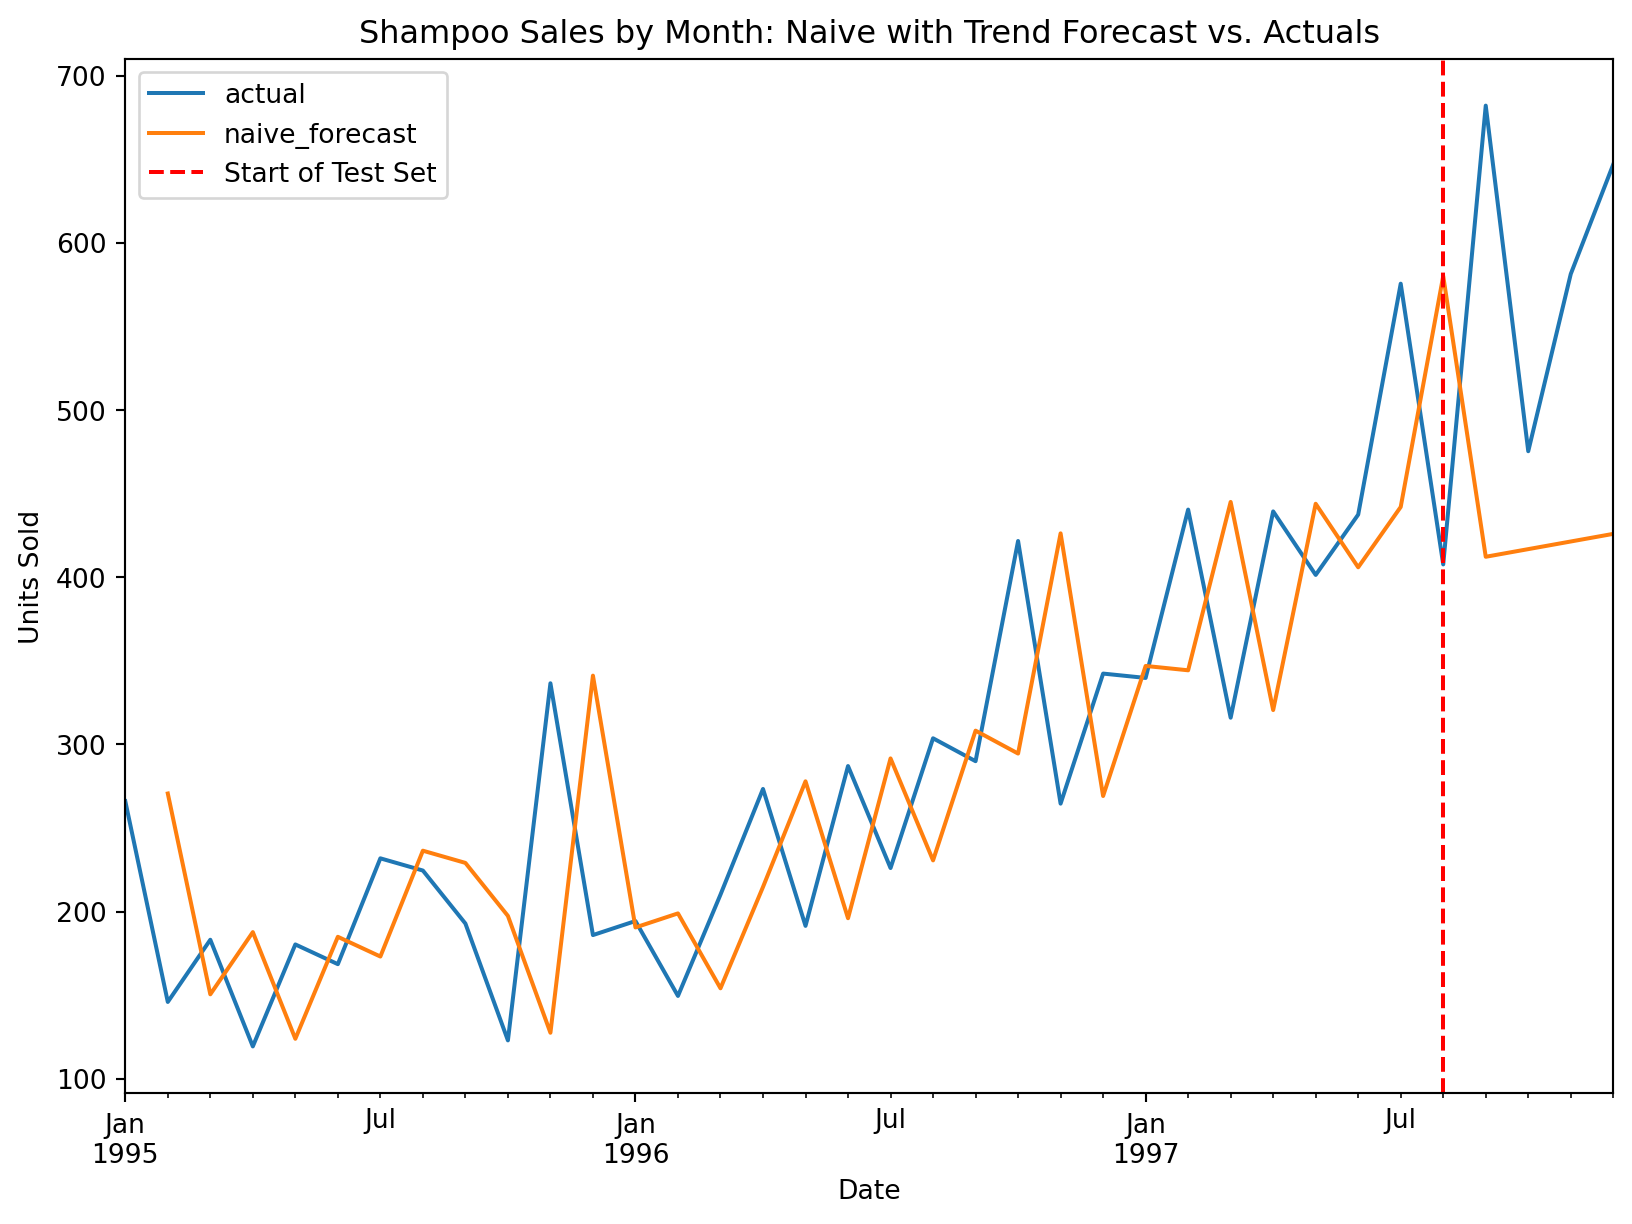
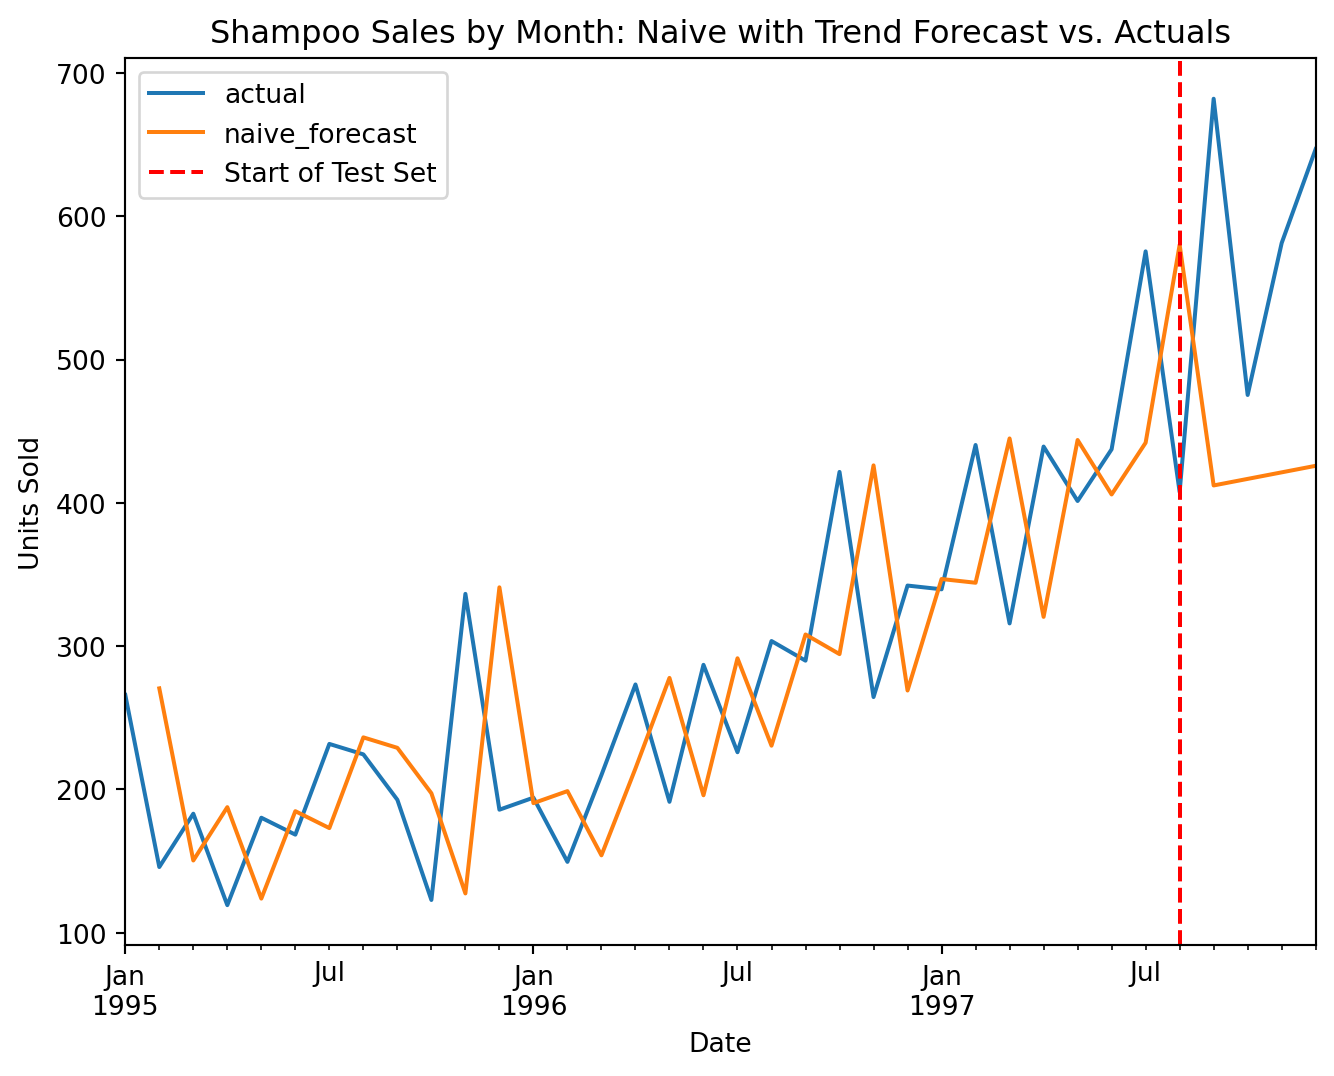
Fixed chart size in naive with drift article

diff --git a/docs/posts/naive-forecasts-including-trend/index.html b/docs/posts/naive-forecasts-including-trend/index.html
@@ -248,7 +248,7 @@ gtag('config', 'G-C9HXYCSWSJ', { 'anonymize_ip': true});
 <section id="a-simple-example-in-python" class="level2">
 <h2 class="anchored" data-anchor-id="a-simple-example-in-python">A Simple Example in Python</h2>
 <p>To illustrate a naive forecast with drift, we will use a common time series dataset that captures three years of monthly shampoo sales. In the following code cell, we will load the libraries we need and prepare our data for use.</p>
-<div id="fc79a6d7" class="cell" data-execution_count="1">
+<div id="8b3847c6" class="cell" data-execution_count="1">
 <div class="code-copy-outer-scaffold"><div class="sourceCode cell-code" id="cb1"><pre class="sourceCode python code-with-copy"><code class="sourceCode python"><span id="cb1-1"><a href="#cb1-1" aria-hidden="true" tabindex="-1"></a><span class="co"># common imports</span></span>
 <span id="cb1-2"><a href="#cb1-2" aria-hidden="true" tabindex="-1"></a><span class="im">import</span> numpy <span class="im">as</span> np</span>
 <span id="cb1-3"><a href="#cb1-3" aria-hidden="true" tabindex="-1"></a><span class="im">import</span> pandas <span class="im">as</span> pd</span>
@@ -272,13 +272,13 @@ gtag('config', 'G-C9HXYCSWSJ', { 'anonymize_ip': true});
 <span id="cb1-21"><a href="#cb1-21" aria-hidden="true" tabindex="-1"></a>shampoo <span class="op">=</span> shampoo.drop(columns<span class="op">=</span>[<span class="st">'Month'</span>, <span class="st">'Year'</span>])</span></code></pre></div><button title="Copy to Clipboard" class="code-copy-button"><i class="bi"></i></button></div>
 </div>
 <p>Now, we will perform a simple train-test split to set aside a portion of our dataset for testing.</p>
-<div id="c270aff3" class="cell" data-execution_count="2">
+<div id="a74a00ed" class="cell" data-execution_count="2">
 <div class="code-copy-outer-scaffold"><div class="sourceCode cell-code" id="cb2"><pre class="sourceCode python code-with-copy"><code class="sourceCode python"><span id="cb2-1"><a href="#cb2-1" aria-hidden="true" tabindex="-1"></a><span class="im">from</span> sklearn.model_selection <span class="im">import</span> train_test_split</span>
 <span id="cb2-2"><a href="#cb2-2" aria-hidden="true" tabindex="-1"></a></span>
 <span id="cb2-3"><a href="#cb2-3" aria-hidden="true" tabindex="-1"></a>y_train, y_test <span class="op">=</span> train_test_split(shampoo, shuffle<span class="op">=</span><span class="va">False</span>, test_size<span class="op">=</span><span class="dv">4</span>) <span class="co">#Shuffle parameter is set to Fase since we are working with a time series</span></span></code></pre></div><button title="Copy to Clipboard" class="code-copy-button"><i class="bi"></i></button></div>
 </div>
 <p>Let’s take a quick look at our data using a simple line plot. In a real-world project, you would do much more during the exploratory data analysis stage. However, for our purposes, this will help us identify the trend structure within the data.</p>
-<div id="d1d3a3ab" class="cell" data-execution_count="3">
+<div id="87a1f324" class="cell" data-execution_count="3">
 <div class="code-copy-outer-scaffold"><div class="sourceCode cell-code" id="cb3"><pre class="sourceCode python code-with-copy"><code class="sourceCode python"><span id="cb3-1"><a href="#cb3-1" aria-hidden="true" tabindex="-1"></a>shampoo.plot(figsize<span class="op">=</span>(<span class="dv">10</span>,<span class="dv">7</span>))</span>
 <span id="cb3-2"><a href="#cb3-2" aria-hidden="true" tabindex="-1"></a>plt.title(<span class="st">'Shampoo Sales by Month: 1995-1997'</span>)</span>
 <span id="cb3-3"><a href="#cb3-3" aria-hidden="true" tabindex="-1"></a>plt.ylabel(<span class="st">'Units Sold'</span>)</span>
@@ -293,13 +293,13 @@ gtag('config', 'G-C9HXYCSWSJ', { 'anonymize_ip': true});
 </div>
 <p>There is no clear seasonality in this dataset. However, our data displays a strong upward trend. Shampoo sales steadily increased during the years the data was collected.</p>
 <p>Now we are ready to create our fitted values for the training set. We will use pandas’ .shift() method to shift our values forward by one row. Then, we will use the .dropna() method to remove the resulting null value created by this shift.</p>
-<div id="6d4040fd" class="cell" data-execution_count="4">
+<div id="c2b52bdd" class="cell" data-execution_count="4">
 <div class="code-copy-outer-scaffold"><div class="sourceCode cell-code" id="cb4"><pre class="sourceCode python code-with-copy"><code class="sourceCode python"><span id="cb4-1"><a href="#cb4-1" aria-hidden="true" tabindex="-1"></a>shampoo_naive_fitted <span class="op">=</span> y_train.shift(<span class="dv">1</span>)</span>
 <span id="cb4-2"><a href="#cb4-2" aria-hidden="true" tabindex="-1"></a>shampoo_naive_fitted <span class="op">=</span> shampoo_naive_fitted.dropna()</span></code></pre></div><button title="Copy to Clipboard" class="code-copy-button"><i class="bi"></i></button></div>
 </div>
 <p>Next, we calculate our drift value. In this example, we will calculate it by subtracting the first observation from the last observation in our training set and dividing by the number of observations minus one.</p>
 <p>Pandas’ <code>.squeeze()</code> method turns the resulting single-value Series into a scalar value. More information about this method can be found in the pandas documentation <a href="https://pandas.pydata.org/docs/reference/api/pandas.DataFrame.squeeze.html">here</a>.</p>
-<div id="9d14b3fe" class="cell" data-execution_count="5">
+<div id="d838146e" class="cell" data-execution_count="5">
 <div class="code-copy-outer-scaffold"><div class="sourceCode cell-code" id="cb5"><pre class="sourceCode python code-with-copy"><code class="sourceCode python"><span id="cb5-1"><a href="#cb5-1" aria-hidden="true" tabindex="-1"></a>shampoo_naive_drift <span class="op">=</span> ((y_train.iloc[<span class="op">-</span><span class="dv">1</span>] <span class="op">-</span> y_train.iloc[<span class="dv">0</span>]) <span class="op">/</span> (<span class="bu">len</span>(y_train) <span class="op">-</span> <span class="dv">1</span>)).squeeze()</span>
 <span id="cb5-2"><a href="#cb5-2" aria-hidden="true" tabindex="-1"></a></span>
 <span id="cb5-3"><a href="#cb5-3" aria-hidden="true" tabindex="-1"></a><span class="bu">print</span>(shampoo_naive_drift)</span></code></pre></div><button title="Copy to Clipboard" class="code-copy-button"><i class="bi"></i></button></div>
@@ -309,7 +309,7 @@ gtag('config', 'G-C9HXYCSWSJ', { 'anonymize_ip': true});
 </div>
 <p>Our drift value is approximately 4.6. This means that, on average, our data has increased by around 4.6 units of sales each month across the training period.</p>
 <p>We will now add this drift value to our fitted values to create a naive forecast with drift.</p>
-<div id="c6027324" class="cell" data-execution_count="6">
+<div id="1c102ff5" class="cell" data-execution_count="6">
 <div class="code-copy-outer-scaffold"><div class="sourceCode cell-code" id="cb7"><pre class="sourceCode python code-with-copy"><code class="sourceCode python"><span id="cb7-1"><a href="#cb7-1" aria-hidden="true" tabindex="-1"></a><span class="co"># Add drift to fitted values</span></span>
 <span id="cb7-2"><a href="#cb7-2" aria-hidden="true" tabindex="-1"></a>shampoo_naive_fitted_drift <span class="op">=</span> shampoo_naive_fitted <span class="op">+</span> shampoo_naive_drift</span>
 <span id="cb7-3"><a href="#cb7-3" aria-hidden="true" tabindex="-1"></a></span>
@@ -318,7 +318,7 @@ gtag('config', 'G-C9HXYCSWSJ', { 'anonymize_ip': true});
 </div>
 <p>Okay, now we are ready to forecast into our test period. We will add the drift value at each successive step, allowing it to accumulate as we move further into the future.</p>
 <p>We will start with the last actual observation in our training set and calculate the forecast for each step in the test period.</p>
-<div id="c8b65403" class="cell" data-execution_count="7">
+<div id="24c0ba25" class="cell" data-execution_count="7">
 <div class="code-copy-outer-scaffold"><div class="sourceCode cell-code" id="cb8"><pre class="sourceCode python code-with-copy"><code class="sourceCode python"><span id="cb8-1"><a href="#cb8-1" aria-hidden="true" tabindex="-1"></a><span class="co"># Capture the final actual training observation as our starting point</span></span>
 <span id="cb8-2"><a href="#cb8-2" aria-hidden="true" tabindex="-1"></a>last_observation <span class="op">=</span> y_train.iloc[<span class="op">-</span><span class="dv">1</span>].squeeze()</span>
 <span id="cb8-3"><a href="#cb8-3" aria-hidden="true" tabindex="-1"></a></span>
@@ -344,8 +344,8 @@ gtag('config', 'G-C9HXYCSWSJ', { 'anonymize_ip': true});
 <span id="cb8-23"><a href="#cb8-23" aria-hidden="true" tabindex="-1"></a>)</span></code></pre></div><button title="Copy to Clipboard" class="code-copy-button"><i class="bi"></i></button></div>
 </div>
 <p>Ok, we have successfully projected our naive model with drift through the test period. Let’s now take a moment to examine how well our model performs using a simple visualization.</p>
-<div id="353a11bd" class="cell" data-execution_count="8">
-<div class="code-copy-outer-scaffold"><div class="sourceCode cell-code" id="cb9"><pre class="sourceCode python code-with-copy"><code class="sourceCode python"><span id="cb9-1"><a href="#cb9-1" aria-hidden="true" tabindex="-1"></a>pd.concat([shampoo, pd.concat([shampoo_naive_fitted_drift, shampoo_naive_forecast_drift], axis<span class="op">=</span><span class="dv">0</span>)], axis<span class="op">=</span><span class="dv">1</span>).rename(columns<span class="op">=</span>{<span class="st">'Sales'</span>:<span class="st">'actual'</span>}).plot(figsize<span class="op">=</span>(<span class="dv">10</span>, <span class="dv">7</span>))</span>
+<div id="59730ba4" class="cell" data-execution_count="8">
+<div class="code-copy-outer-scaffold"><div class="sourceCode cell-code" id="cb9"><pre class="sourceCode python code-with-copy"><code class="sourceCode python"><span id="cb9-1"><a href="#cb9-1" aria-hidden="true" tabindex="-1"></a>pd.concat([shampoo, pd.concat([shampoo_naive_fitted_drift, shampoo_naive_forecast_drift], axis<span class="op">=</span><span class="dv">0</span>)], axis<span class="op">=</span><span class="dv">1</span>).rename(columns<span class="op">=</span>{<span class="st">'Sales'</span>:<span class="st">'actual'</span>}).plot(figsize<span class="op">=</span>(<span class="dv">8</span>, <span class="dv">6</span>))</span>
 <span id="cb9-2"><a href="#cb9-2" aria-hidden="true" tabindex="-1"></a>plt.axvline(x<span class="op">=</span>y_train.index[<span class="op">-</span><span class="dv">1</span>], color<span class="op">=</span><span class="st">'red'</span>, linestyle<span class="op">=</span><span class="st">'--'</span>, label<span class="op">=</span><span class="st">'Start of Test Set'</span>)</span>
 <span id="cb9-3"><a href="#cb9-3" aria-hidden="true" tabindex="-1"></a>plt.title(<span class="st">'Shampoo Sales by Month: Naive with Trend Forecast vs. Actuals'</span>)</span>
 <span id="cb9-4"><a href="#cb9-4" aria-hidden="true" tabindex="-1"></a>plt.ylabel(<span class="st">'Units Sold'</span>)</span>
@@ -354,7 +354,7 @@ gtag('config', 'G-C9HXYCSWSJ', { 'anonymize_ip': true});
 <div class="cell-output cell-output-display">
 <div>
 <figure class="figure">
-<p><img src="index_files/figure-html/cell-9-output-1.png" width="816" height="612" class="figure-img"></p>
+<p><img src="index_files/figure-html/cell-9-output-1.png" width="667" height="538" class="figure-img"></p>
 </figure>
 </div>
 </div>

diff --git a/docs/index.html b/docs/index.html
@@ -262,7 +262,7 @@ window.Quarto = {
 <p>Browse the latest articles below.</p>
 <div id="listing-latest-posts" class="quarto-listing quarto-listing-container-default">
 <div class="list quarto-listing-default">
[2 lines of base64/hex data omitted]
 <div class="body">
 <h3 class="no-anchor listing-title">
 <a href="./posts/naive-forecasts-including-trend/index.html" class="no-external">Naive Forecasts with Trend</a>

diff --git a/docs/archive.html b/docs/archive.html
@@ -253,7 +253,7 @@ window.Quarto = {
     </div>
 </div>
 <div class="list quarto-listing-default">
[2 lines of base64/hex data omitted]
 <div class="body">
 <h3 class="no-anchor listing-title">
 <a href="./posts/naive-forecasts-including-trend/index.html" class="no-external">Naive Forecasts with Trend</a>
